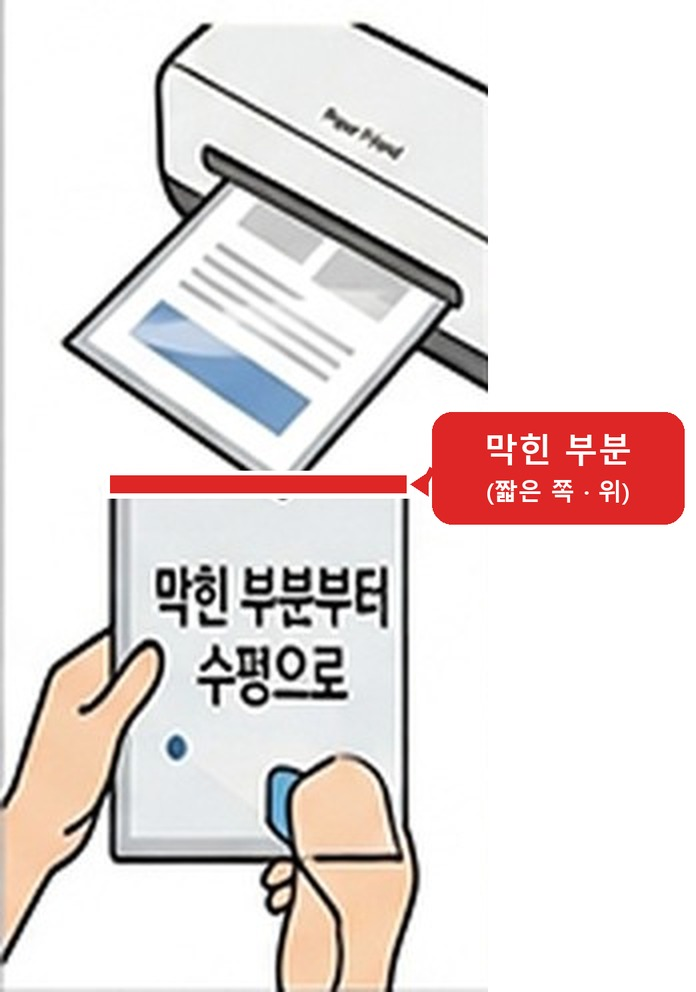
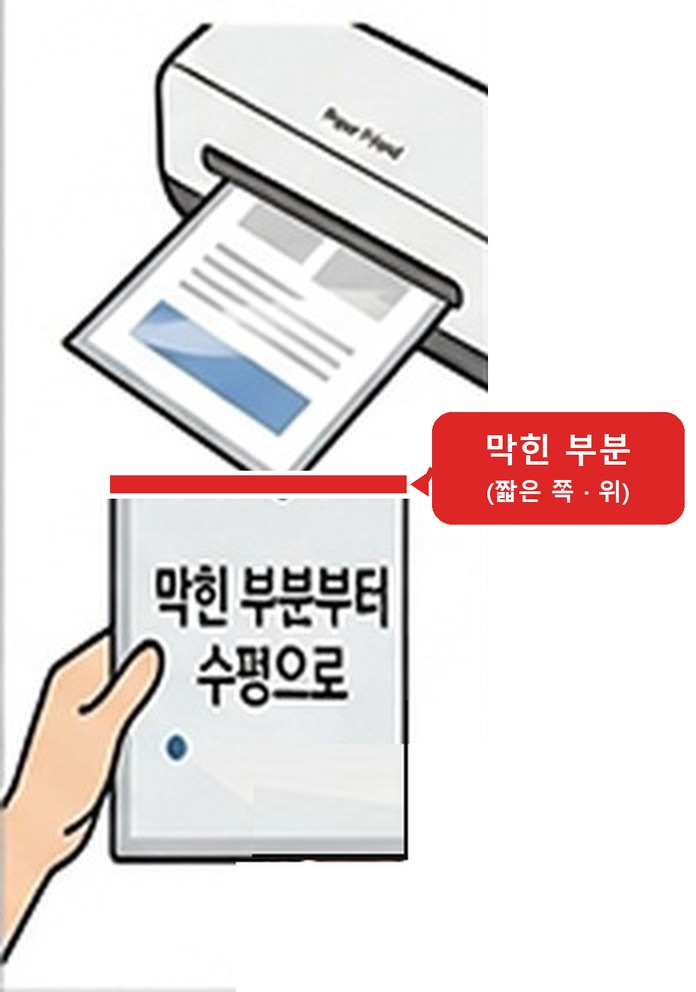
fix: PL-1506 6단계 그림의 어색한 오른손 제거, 종이 모서리 복원

Changed region(s): [[0.3319, 0.75, 0.6034, 1.0]]

diff --git a/guide-coat.html b/guide-coat.html
@@ -619,7 +619,7 @@ footer{background:#111827;color:rgba(255,255,255,.55);padding:60px 6%}
       </div>
       <div class="step">
         <div class="step-no">6</div>
-        <div class="step-figs"><img class="step-photo pl" src="images/coat/pl-s6.jpg?v=2" alt="코팅지의 막힌 부분부터 수평으로 투입구에 넣는 모습" loading="lazy"></div>
+        <div class="step-figs"><img class="step-photo pl" src="images/coat/pl-s6.jpg?v=3" alt="코팅지의 막힌 부분부터 수평으로 투입구에 넣는 모습" loading="lazy"></div>
         <div class="step-h">막힌 부분부터 수평으로 투입</div>
         <p class="step-p">코팅지의 <b>막힌 부분부터 수평으로</b> 투입구에 넣습니다.<br><span class="r">막힌 부분은 코팅지의 <b>짧은 쪽(위쪽) 끝</b>입니다.</span> 긴 쪽(옆면)이 아닙니다.</p>
       </div>
